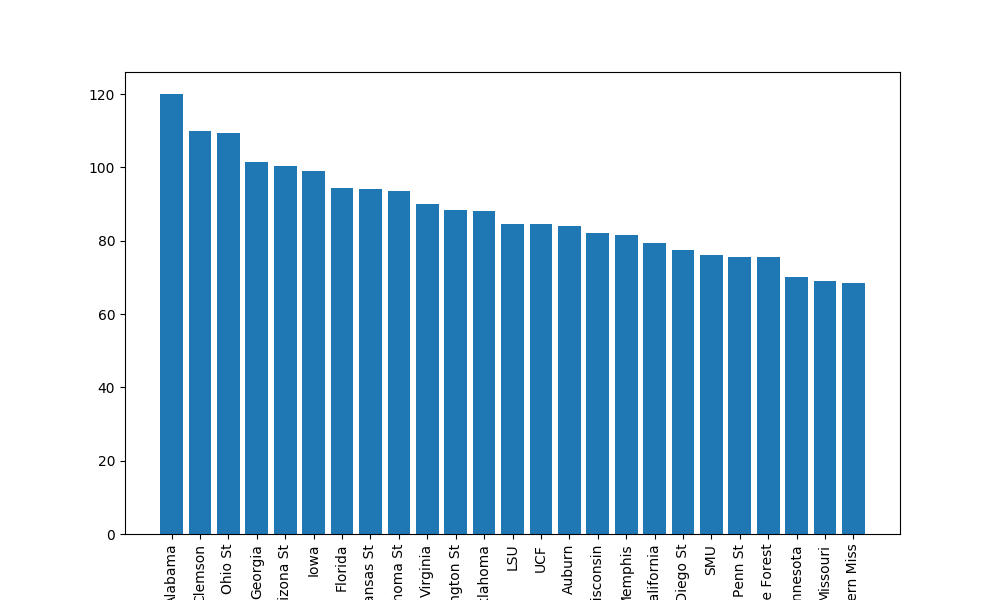
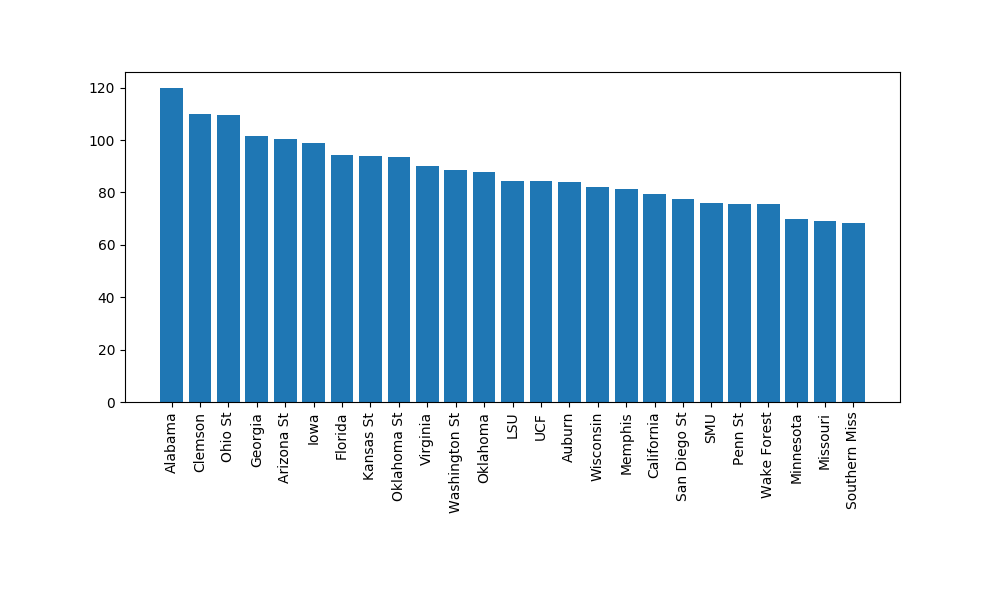
improved top25 plot dimensions

diff --git a/templates/chart.html b/templates/chart.html
@@ -7,7 +7,6 @@
 {% block main %}
 	<br>
 	<h3> Top 25 - Graphically </h3>
-	<br>
 	<img src="static/top25.png">
 	
 	

diff --git a/analyze.py b/analyze.py
@@ -214,14 +214,16 @@ def top25_plot():
 		x.append(team['team'])
 		y.append(team['rating'])
 
-
+	# Format plot
 	fig = plt.figure(num=1)
 	fig.set_figheight(6)
 	fig.set_figwidth(10)
 	pos = np.arange(len(x))
 	plt.bar(pos, y, align='center', tick_label=x)
+	plt.gcf().subplots_adjust(bottom=0.33)
 	plt.xticks(rotation='vertical')
 
+	# Save plot 
 	fig.savefig("static/top25.png")
 
 	return

diff --git a/update.py b/update.py
@@ -4,7 +4,7 @@
 import app
 import teamlist
 import tables
-
+import analyze
 
 
 
@@ -18,7 +18,7 @@ def update_weekly(year):
 	app.points(year)
 	app.rank()
 	app.store_week()
-	# app.chart()
+	analyze.chart()
 
 	return
 
